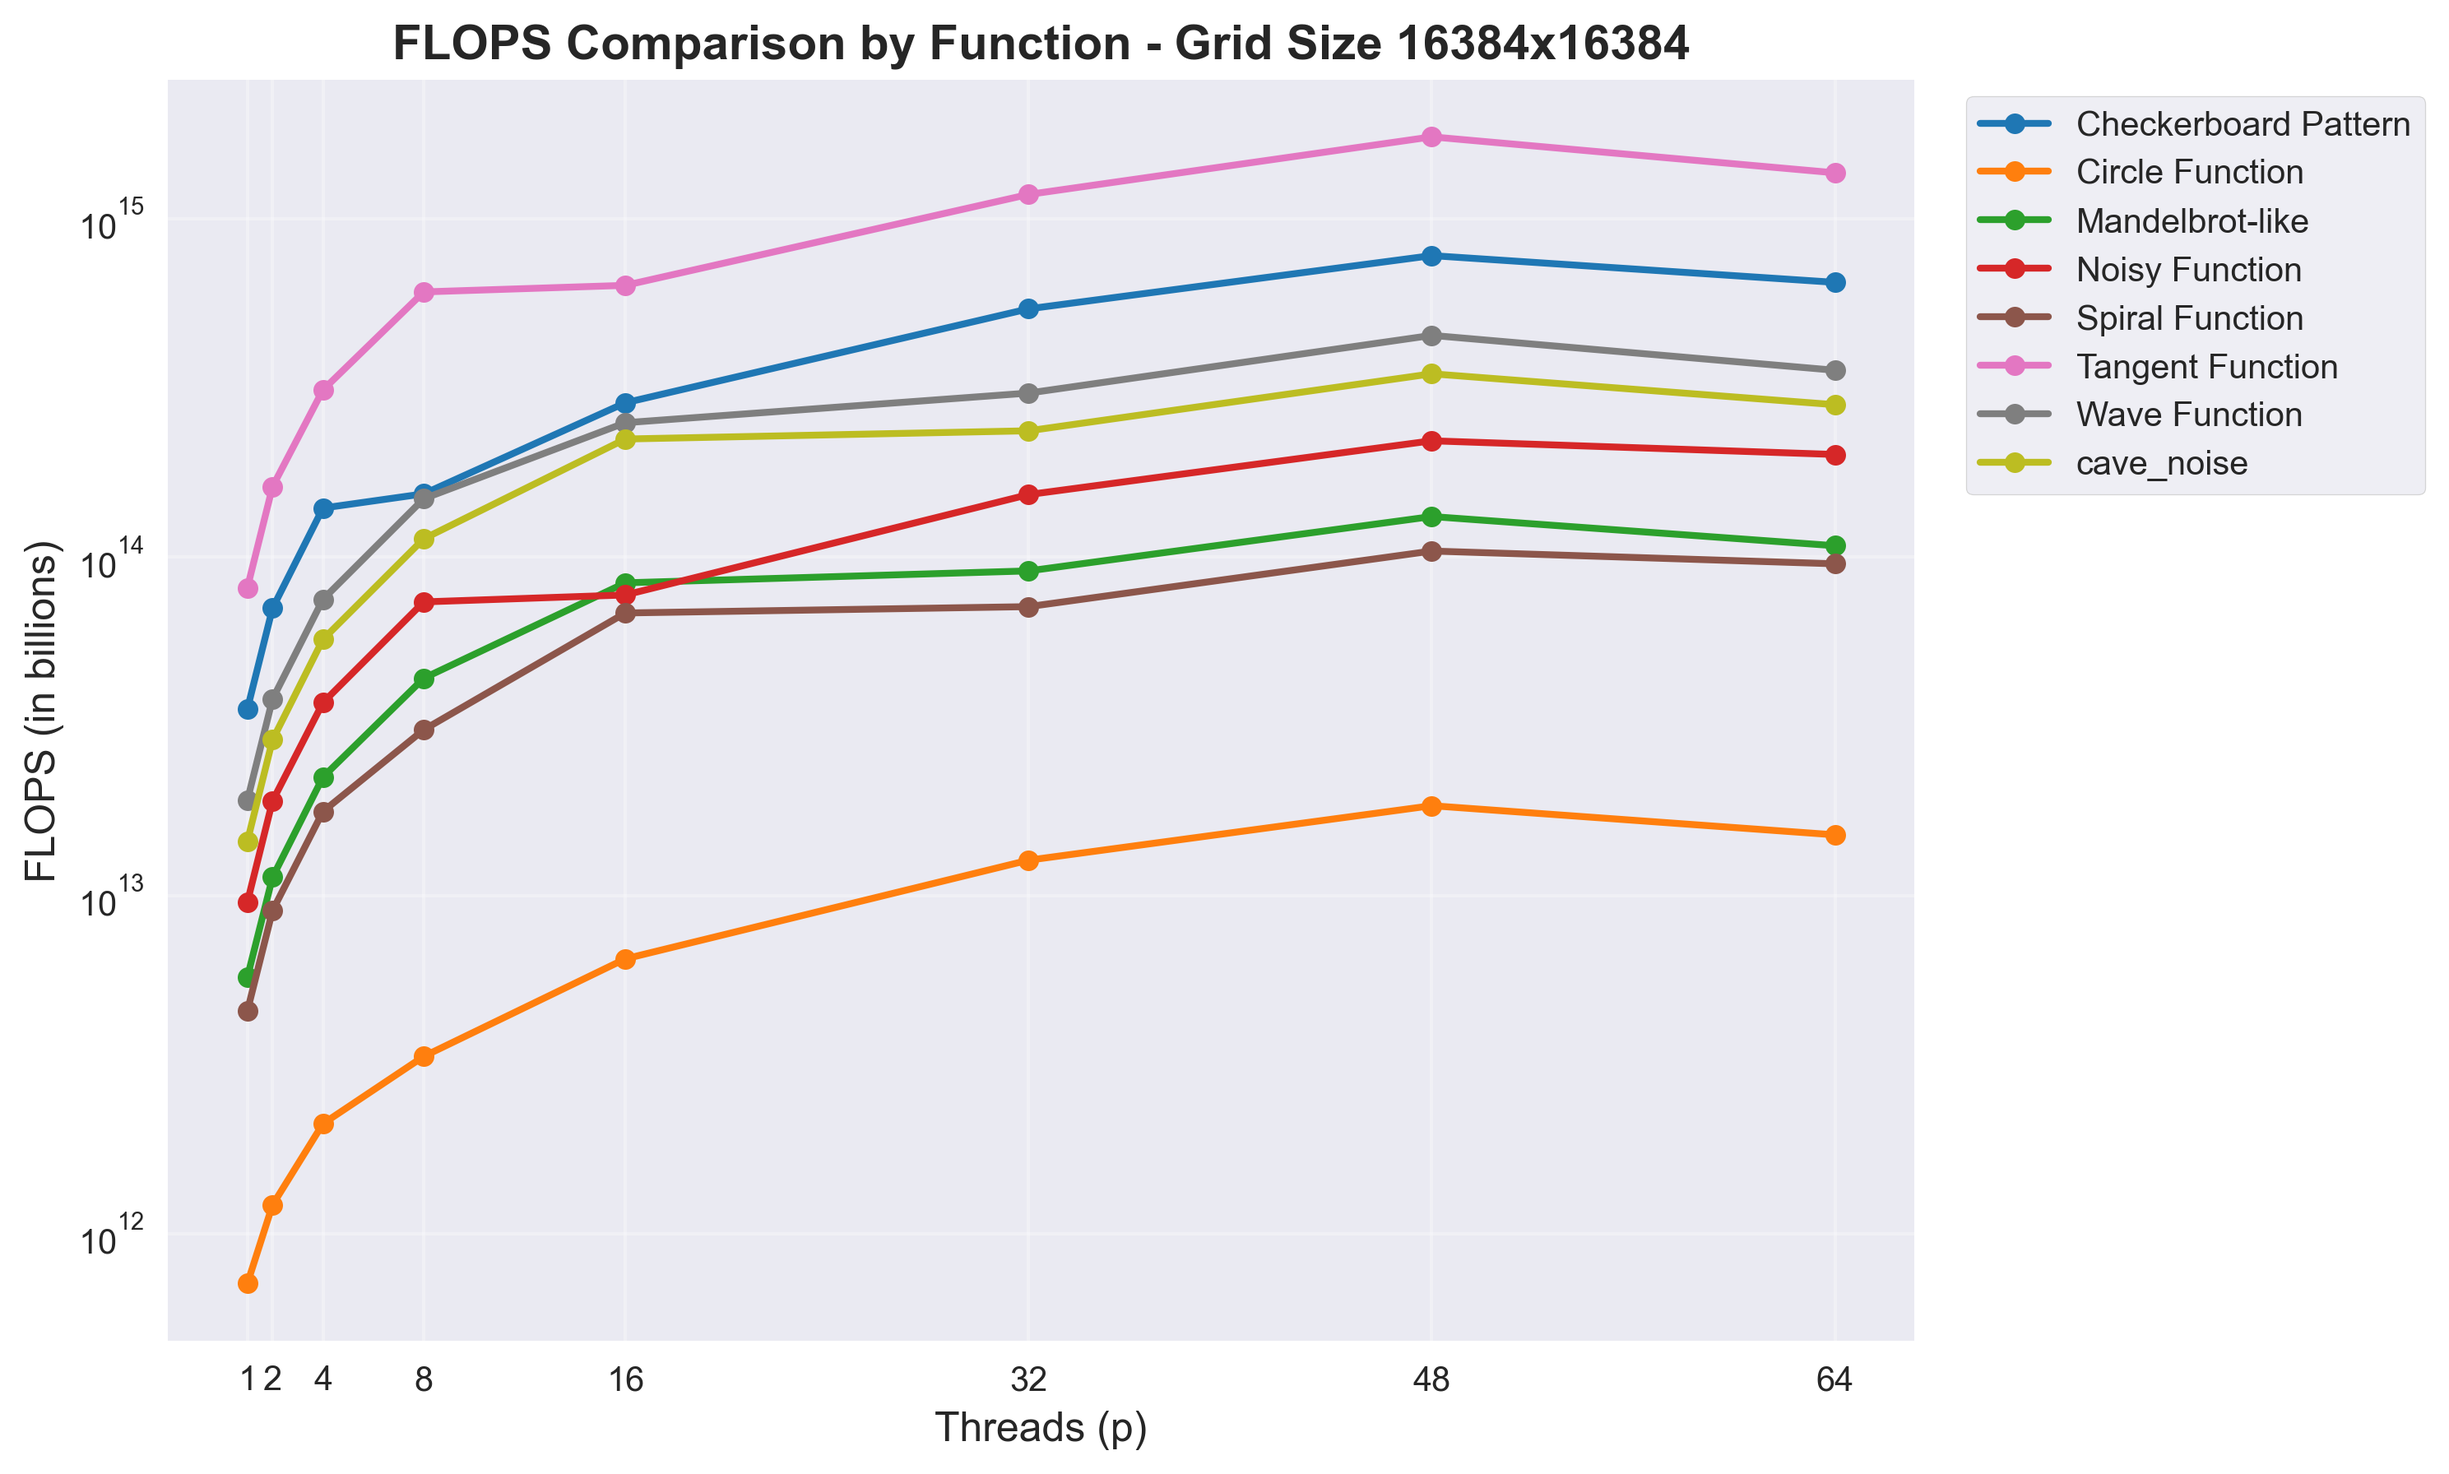
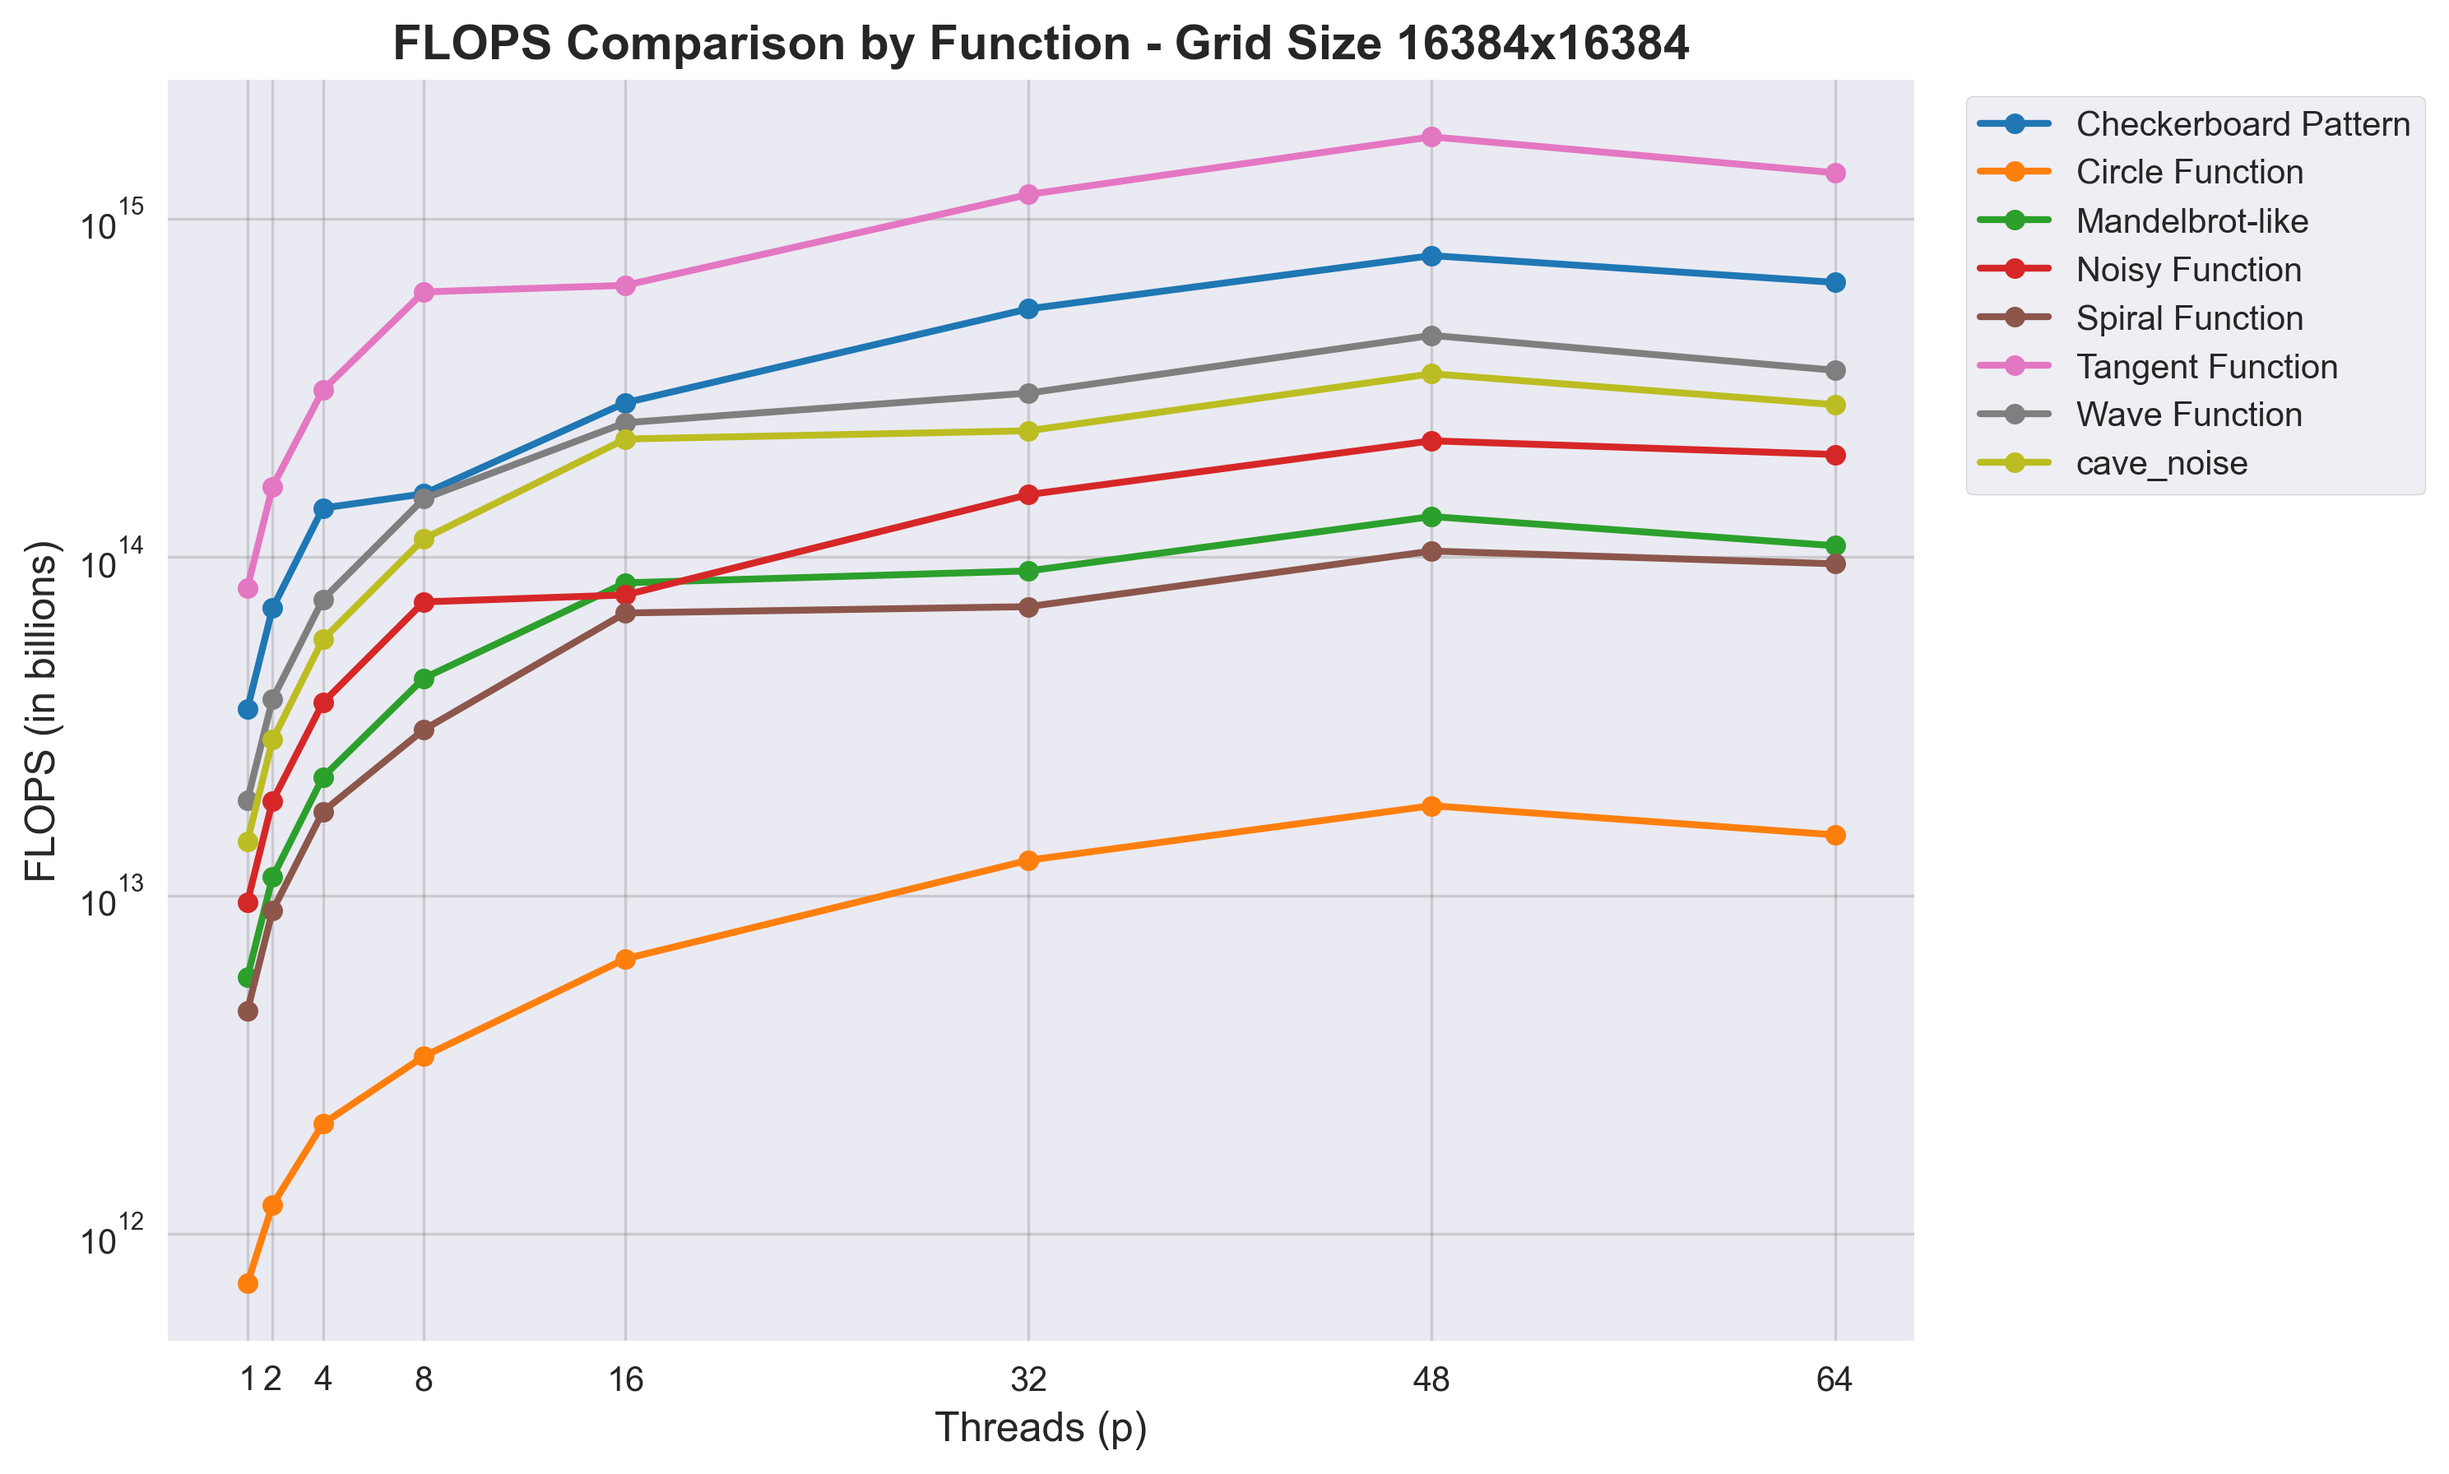
Automated results

Changed region(s): [[0.0937, 0.125, 0.125, 0.1562]]

diff --git a/generate_time_vs_p.py b/generate_time_vs_p.py
@@ -1,6 +1,5 @@
 import pandas as pd
 import matplotlib
-
 import matplotlib.pyplot as plt
 import os
 
@@ -15,16 +14,7 @@ df_x86 = pd.read_csv('./results/benchmark_it3_x86.csv')[required_columns]
 
 # Filter out rows where GRIDSIZE is not in [16384, 8192]
 #df_x86 = df_x86[df_x86['GRIDSIZE'].isin([16384, 8192])]
-df_x86['SPEEDUP'] = float('nan')
 
-for (func,grid),group in df_x86.groupby(['FUNCTION', 'GRIDSIZE']):
-    #get ts
-    base_row = group[group["PROCESSORS"] == 1]
-    ts = base_row['TIME'].values[0]
-    
-    df_x86.loc[group.index, 'SPEEDUP'] = ts / group['TIME']
-    
-    
 function_list = sorted(df_x86['FUNCTION'].unique())
 color_map = matplotlib.colormaps['tab10']
 color_dict = {func: color_map(i / len(function_list)) for i, func in enumerate(function_list)}
@@ -34,33 +24,38 @@ for grid, grid_group in df_x86.groupby('GRIDSIZE'):
     plt.figure(figsize=(12, 8))
     
     for func, func_group in grid_group.groupby('FUNCTION'):
-        plt.plot(func_group['PROCESSORS'], func_group['SPEEDUP'], 
+        plt.plot(func_group['PROCESSORS'], func_group['TIME'], 
                 marker='o', label=f'{func}', linewidth=2, markersize=6,
                 color=color_dict[func])
     
     processors_range = grid_group['PROCESSORS'].unique()
     grid_size = grid_group['GRIDSIZE'].values[0]
-    #O( n**2 / (n**2 / P + P))
     
-    # Theoretical speedup line
-    # Model: coef * (grid_size**2 / (grid_size**2 / p + p))
-    theorical_raw = grid_size**2 / (grid_size**2 / processors_range + processors_range)
-    coef = grid_size**2 / (grid_size**2  + 1) 
-    print(f'Grid {grid_size} - Coefficient for theoretical speedup: {coef}')
-    theoretical_speedup =  theorical_raw * coef 
-    
-    plt.plot(processors_range, theoretical_speedup, 
-            linestyle='--', color='black', linewidth=2, alpha=0.7, 
-            label='Theoretical speedup O(n²/((n²/p)+p))')
+    # Theoretical time based on parallel efficiency model
+    # Model: T(p) = T(1) * (1 + alpha * (p-1)) / p
+    # Where alpha represents communication/synchronization overhead
+    base_times = {}
+    for func, func_group in grid_group.groupby('FUNCTION'):
+        base_time = func_group[func_group['PROCESSORS'] == 1]['TIME'].values[0]
+        base_times[func] = base_time
+        
+        # Simple theoretical model: T(p) = T(1) / p (ideal case)
+        #ideal_times = base_time / processors_range
+        #plt.plot(processors_range, ideal_times, 
+        #        linestyle='--', color=color_dict[func], linewidth=1, alpha=0.5,
+        #        label=f'{func} (Ideal)')
     
     plt.grid(True, alpha=0.5, linestyle='-', linewidth=0.8, color='gray')
-    plt.title(f'Speedup Comparison by Function - Grid Size {grid}x{grid}', fontsize=14, fontweight='bold')
+    plt.title(f'Execution Time vs Processors - Grid Size {grid}x{grid}', fontsize=14, fontweight='bold')
     plt.xlabel('Threads (p)', fontsize=12)
-    plt.ylabel('Speedup', fontsize=12)
+    plt.ylabel('Time (seconds)', fontsize=12)
     plt.xticks(processors_range)
+    plt.yscale('log')  # Log scale for better visualization of time differences
     plt.grid(True, alpha=0.3)
-    plt.legend(loc='upper left', fontsize=12, frameon=True, fancybox=True, shadow=True)
-    plt.tight_layout(pad=2.0)
+    plt.legend(bbox_to_anchor=(1.02, 1), loc='upper left', fontsize=10, frameon=True)
+    plt.tight_layout(pad=8.0)
     
-    plt.savefig(SAVE_DIR + f'speedup_comparison_grid_{grid}.png', dpi=300, bbox_inches='tight')
+    plt.savefig(SAVE_DIR + f'time_vs_processors_grid_{grid}.png', dpi=300, bbox_inches='tight')
     plt.close()
+
+print("Time vs Processors graphs generated successfully!")

diff --git a/generate_flops_vs_p.py b/generate_flops_vs_p.py
@@ -14,7 +14,7 @@ plt.style.use('seaborn-v0_8')
 required_columns = ['FUNCTION', 'PROCESSORS', 'TIME', 'GRIDSIZE', 'FLOPS'] #FLOPS should be FLOP
 df_x86 = pd.read_csv('results/benchmark_it3_x86.csv')[required_columns]
 # Filter out rows where GRIDSIZE is not in [16384, 8192]
-df_x86 = df_x86[df_x86['GRIDSIZE'].isin([16384, 8192])]
+#df_x86 = df_x86[df_x86['GRIDSIZE'].isin([16384, 8192])]
 
 df_x86['REAL_FLOPS'] = df_x86['FLOPS'] / df_x86['TIME']
 
@@ -37,6 +37,8 @@ for grid, grid_group in df_x86.groupby('GRIDSIZE'):
     plt.xlabel('Threads (p)', fontsize=12)
     plt.ylabel('FLOPS (in billions)', fontsize=12)
     plt.yscale('log')
+    plt.grid(True, alpha=0.5, linestyle='-', linewidth=0.8, color='gray')
+
     plt.xticks(func_group['PROCESSORS'])
     plt.grid(True, alpha=0.3)
     plt.legend(bbox_to_anchor=(1.02, 1), loc='upper left', fontsize=10, frameon=True)
